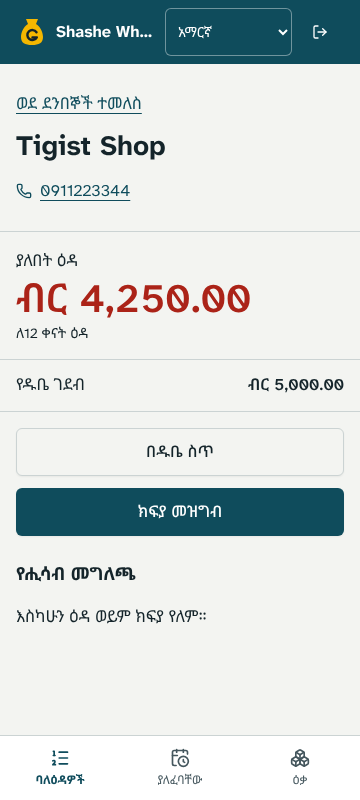
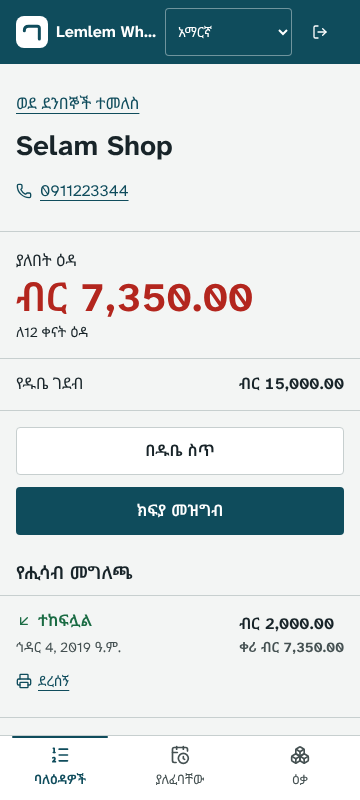
Repayment receipt, and reprint any sale or repayment receipt from the customer statement
The statement view now carries the sale or payment each row came from
(columns appended, still security invoker). The repayment form opens the
new receipt; the RLS test checks the new columns and anon access.

diff --git a/src/server/dal/customers.ts b/src/server/dal/customers.ts
@@ -1,4 +1,5 @@
 import "server-only";
+import { receiptRef } from "@/lib/receipt";
 import { createClient } from "@/lib/supabase/server";
 
 export type CustomerRowDTO = {
@@ -29,6 +30,8 @@ export type StatementRowDTO = {
   balanceAfter: number;
   at: string;
   note: string | null;
+  /** The sale or payment this row came from, for reprinting its receipt. */
+  receipt: { kind: "sale" | "payment"; id: string } | null;
 };
 
 const DAY_MS = 86_400_000;
@@ -150,7 +153,7 @@ export async function getStatement(customerId: string): Promise<StatementRowDTO[
   const supabase = await createClient();
   const { data, error } = await supabase
     .from("wh_customer_statement")
-    .select("id, type, amount, balance_after, created_at, note")
+    .select("id, type, amount, balance_after, created_at, note, ref_table, ref_id")
     .eq("customer_id", customerId)
     .order("created_at", { ascending: false })
     .order("id", { ascending: false })
@@ -166,6 +169,12 @@ export async function getStatement(customerId: string): Promise<StatementRowDTO[
             balanceAfter: row.balance_after ?? 0,
             at: row.created_at,
             note: row.note,
+            receipt:
+              row.ref_id && row.ref_table === "sales"
+                ? { kind: "sale" as const, id: row.ref_id }
+                : row.ref_id && row.ref_table === "payments"
+                  ? { kind: "payment" as const, id: row.ref_id }
+                  : null,
           },
         ]
       : [],
@@ -178,13 +187,59 @@ export async function recordRepayment(input: {
   amount: number;
   method: "cash" | "telebirr" | "cbe_birr" | "bank" | "other";
   reference: string | undefined;
-}): Promise<{ ok: boolean }> {
+}): Promise<{ ok: true; paymentId: string } | { ok: false }> {
   const supabase = await createClient();
-  const { error } = await supabase.rpc("record_repayment", {
+  const { data, error } = await supabase.rpc("record_repayment", {
     p_customer: input.customer,
     p_amount: input.amount,
     p_method: input.method,
     p_reference: input.reference,
   });
-  return { ok: !error };
+  return !error && data ? { ok: true, paymentId: data } : { ok: false };
+}
+
+export type PaymentReceiptDTO = {
+  id: string;
+  ref: string;
+  customerId: string;
+  customerName: string;
+  amount: number;
+  method: string;
+  reference: string | null;
+  createdAt: string;
+  /** Balance right after this repayment (from the statement), null if the ledger row is missing. */
+  balanceAfter: number | null;
+};
+
+/** One repayment for its receipt. RLS hides other shops' payments; `customerId` must match. */
+export async function getPaymentReceipt(paymentId: string, customerId: string): Promise<PaymentReceiptDTO | null> {
+  const supabase = await createClient();
+  const { data: payment, error } = await supabase
+    .from("payments")
+    .select("id, customer_id, amount, method, reference, created_at, customers(name)")
+    .eq("id", paymentId)
+    .eq("customer_id", customerId)
+    .maybeSingle();
+  if (error) throw new Error("payment_load_failed");
+  if (!payment?.customer_id || !payment.customers) return null;
+
+  const { data: row, error: rowError } = await supabase
+    .from("wh_customer_statement")
+    .select("balance_after")
+    .eq("ref_table", "payments")
+    .eq("ref_id", payment.id)
+    .maybeSingle();
+  if (rowError) throw new Error("payment_load_failed");
+
+  return {
+    id: payment.id,
+    ref: receiptRef(payment.id),
+    customerId: payment.customer_id,
+    customerName: payment.customers.name,
+    amount: payment.amount,
+    method: payment.method,
+    reference: payment.reference,
+    createdAt: payment.created_at,
+    balanceAfter: row?.balance_after ?? null,
+  };
 }

diff --git a/src/app/[locale]/(app)/customers/[id]/payments/[paymentId]/page.tsx b/src/app/[locale]/(app)/customers/[id]/payments/[paymentId]/page.tsx
@@ -1,0 +1,76 @@
+import { notFound } from "next/navigation";
+import { getTranslations, setRequestLocale } from "next-intl/server";
+import { Check } from "lucide-react";
+import { ReceiptPreview } from "@/components/galmee/receipt-preview";
+import { PrintButton } from "@/components/print-button";
+import { Link } from "@/i18n/navigation";
+import type { AppLocale } from "@/i18n/routing";
+import { formatEthiopianDate } from "@/lib/ethiopian-calendar";
+import { formatBirr } from "@/lib/money";
+import { getPaymentReceipt } from "@/server/dal/customers";
+import { getSession } from "@/server/dal/session";
+import { uuidParam } from "@/server/validation";
+
+const METHOD_KEYS: Record<string, "methodCash" | "methodTelebirr" | "methodCbe" | "methodBank" | "methodOther"> = {
+  cash: "methodCash",
+  telebirr: "methodTelebirr",
+  cbe_birr: "methodCbe",
+  bank: "methodBank",
+  other: "methodOther",
+};
+
+export default async function PaymentReceiptPage({
+  params,
+  searchParams,
+}: PageProps<"/[locale]/customers/[id]/payments/[paymentId]">) {
+  const [{ locale: rawLocale, id, paymentId }, sp] = await Promise.all([params, searchParams]);
+  setRequestLocale(rawLocale);
+  const locale = rawLocale as AppLocale;
+  if (!uuidParam.safeParse(id).success || !uuidParam.safeParse(paymentId).success) notFound();
+
+  const [{ tenant }, t, tc, payment] = await Promise.all([
+    getSession(),
+    getTranslations("Receipt"),
+    getTranslations("Customers"),
+    getPaymentReceipt(paymentId, id),
+  ]);
+  if (!payment) notFound();
+
+  const methodKey = METHOD_KEYS[payment.method];
+  const method = methodKey ? tc(methodKey) : payment.method;
+  const totals = [
+    ...(payment.balanceAfter !== null ? [{ label: t("owedAfter"), amount: formatBirr(payment.balanceAfter, locale) }] : []),
+    { label: t("paid", { method }), amount: formatBirr(payment.amount, locale) },
+  ];
+
+  return (
+    <div className="grid max-w-md gap-4 px-4 pt-4 md:px-0 md:pt-0 print:p-0">
+      <Link
+        href={`/customers/${payment.customerId}`}
+        className="inline-flex min-h-12 items-center text-tarp underline underline-offset-4 print:hidden"
+      >
+        {t("backToCustomer", { name: payment.customerName })}
+      </Link>
+      {sp.new === "1" ? (
+        <p role="status" className="flex items-center gap-2 rounded-md border border-paid p-3 text-paid print:hidden">
+          <Check className="size-5 shrink-0" aria-hidden />
+          {t("paymentSaved")}
+        </p>
+      ) : null}
+      <h1 className="sr-only">{t("paymentTitle", { ref: payment.ref })}</h1>
+      <ReceiptPreview
+        className="mx-0 print:border-0 print:p-0"
+        tenantName={tenant.name}
+        title={t("paymentTitle", { ref: payment.ref })}
+        dateLabel={formatEthiopianDate(payment.createdAt, locale)}
+        lines={[
+          { name: t("customer", { name: payment.customerName }), qty: "", amount: "" },
+          ...(payment.reference ? [{ name: t("reference", { ref: payment.reference }), qty: "", amount: "" }] : []),
+        ]}
+        totals={totals}
+        footer={payment.balanceAfter === 0 ? t("settled") : t("footer")}
+      />
+      <PrintButton label={t("print")} />
+    </div>
+  );
+}

diff --git a/src/app/[locale]/(app)/customers/[id]/page.tsx b/src/app/[locale]/(app)/customers/[id]/page.tsx
@@ -1,6 +1,6 @@
 import { notFound } from "next/navigation";
 import { getTranslations, setRequestLocale } from "next-intl/server";
-import { ArrowDownLeft, ArrowUpRight, Check, Phone, TriangleAlert } from "lucide-react";
+import { ArrowDownLeft, ArrowUpRight, Check, Phone, Printer, TriangleAlert } from "lucide-react";
 import { Button } from "@/components/ui/button";
 import { Link } from "@/i18n/navigation";
 import type { AppLocale } from "@/i18n/routing";
@@ -15,9 +15,10 @@ export default async function CustomerPage({ params, searchParams }: PageProps<"
   const locale = rawLocale as AppLocale;
   if (!uuidParam.safeParse(id).success) notFound();
 
-  const [t, ts, customer, statement] = await Promise.all([
+  const [t, ts, tr, customer, statement] = await Promise.all([
     getTranslations("Customers"),
     getTranslations("Sales"),
+    getTranslations("Receipt"),
     getCustomer(id),
     getStatement(id),
   ]);
@@ -116,6 +117,15 @@ export default async function CustomerPage({ params, searchParams }: PageProps<"
                   {t("balanceAfter", { amount: formatBirr(row.balanceAfter, locale) })}
                 </span>
                 {row.note ? <span className="col-span-2 text-sm text-muted-foreground">{row.note}</span> : null}
+                {row.receipt ? (
+                  <Link
+                    href={`/customers/${customer.id}/${row.receipt.kind === "sale" ? "sales" : "payments"}/${row.receipt.id}`}
+                    className="col-span-2 inline-flex min-h-12 items-center gap-1.5 justify-self-start text-sm text-tarp underline underline-offset-4"
+                  >
+                    <Printer className="size-4" aria-hidden />
+                    {tr("reprint")}
+                  </Link>
+                ) : null}
               </li>
             ))}
           </ul>

diff --git a/src/actions/customers.ts b/src/actions/customers.ts
@@ -33,7 +33,7 @@ export async function addRepayment(_prev: FormState, formData: FormData): Promis
   if (!customer) return { error: "errorSave" };
   if (parsed.data.amount > customer.balance) return { error: "errorTooMuch" };
 
-  const { ok } = await recordRepayment(parsed.data);
-  if (!ok) return { error: "errorSave" };
-  return redirectTo(`/customers/${customer.id}?saved=1`);
+  const result = await recordRepayment(parsed.data);
+  if (!result.ok) return { error: "errorSave" };
+  return redirectTo(`/customers/${customer.id}/payments/${result.paymentId}?new=1`);
 }

diff --git a/src/lib/supabase/database.types.ts b/src/lib/supabase/database.types.ts
@@ -2284,6 +2284,8 @@ export type Database = {
           due_date: string | null
           id: string | null
           note: string | null
+          ref_id: string | null
+          ref_table: string | null
           tenant_id: string | null
           type: string | null
         }

diff --git a/ROADMAP.md b/ROADMAP.md
@@ -3,7 +3,7 @@
 ## M-next: Tier 1 close-out (receipts)
 
 - [x] Receipt layout (58 mm, EN/AM) for credit sale
-- [ ] Receipt for repayment + reprint from statement
+- [x] Receipt for repayment + reprint from statement
 - [ ] Telegram receipt via notifications queue
 
 ## M-after: Tier 2 and 3
